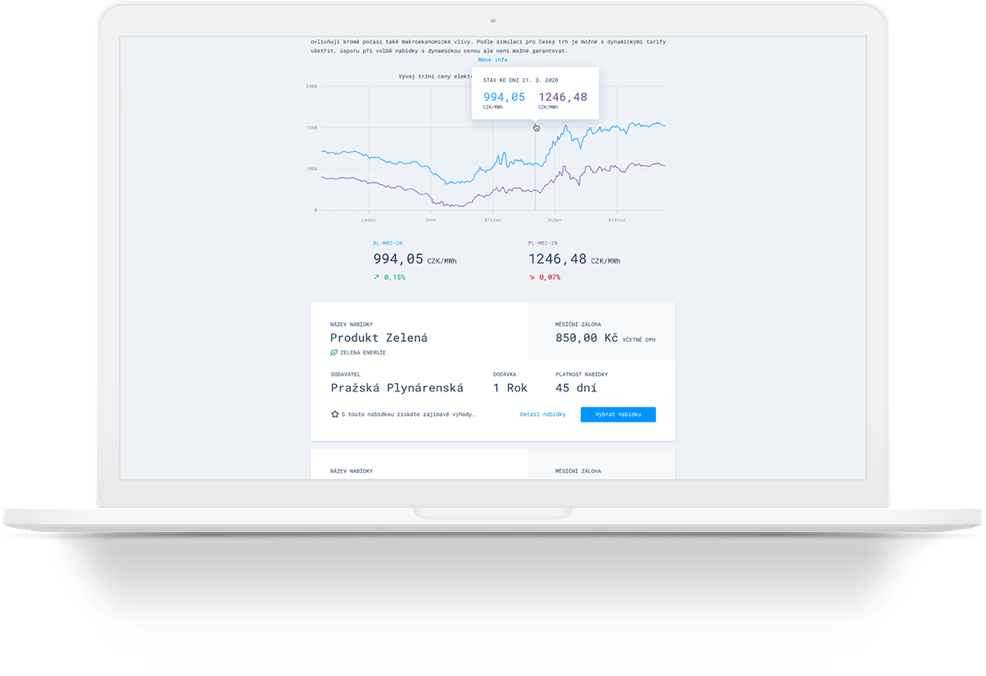
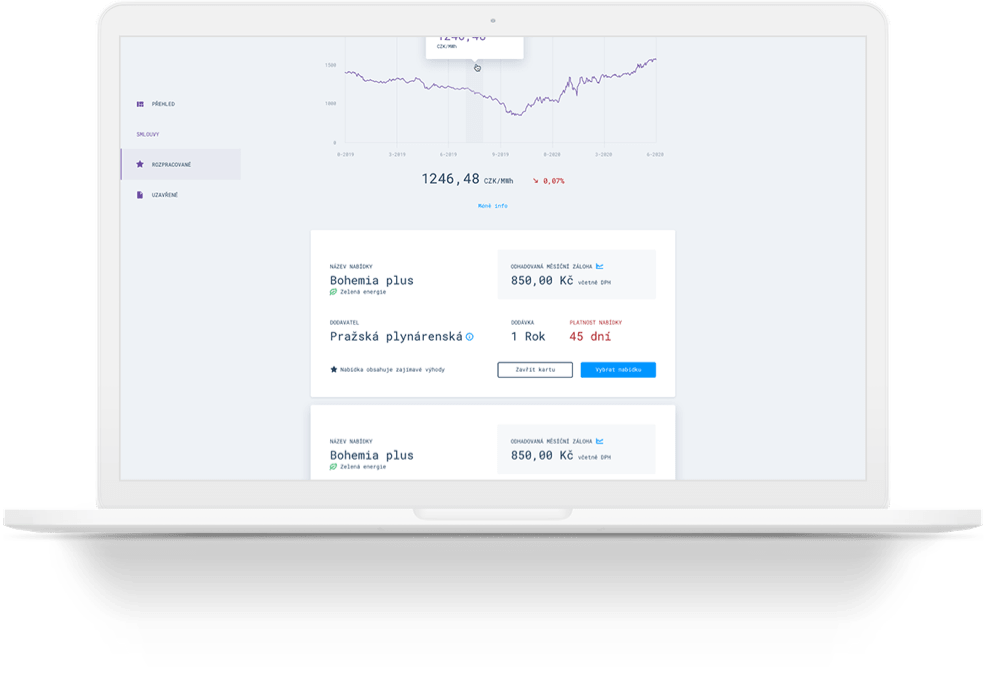
PXEPR-871-update-landing-page new picture add and minor fix

diff --git a/src/common/containers/carousel-container/carousel-container.component.ts b/src/common/containers/carousel-container/carousel-container.component.ts
@@ -28,20 +28,20 @@ export class CarouselContainerComponent extends AbstractComponent {
         {
             title: 'Nejdříve se seznámíme',
             label: 'Představíte nám vaše odběrné místo a základní informace o vaší aktuální smlouvě s dodavatelem.',
-            alt: 'carousel obrázek - drag and drop funkce',
-            src: '/assets/images/landing-page/laptop-dragdrop.png',
+            alt: 'carousel obrázek - Nejdříve se seznámíme',
+            src: '/assets/images/landing-page/laptop-supply-point.png',
         },
         {
             title: 'Dostanete nabídky',
             label: 'Získáme pro vás ty nejzajímavější nabídky od dodavatelů, které před tím důkladně prověříme, ať se nemusíte ničeho bát.',
-            alt: 'carousel obrázek - zajímavé nabídky',
+            alt: 'carousel obrázek - Dostanete nabídky',
             src: '/assets/images/landing-page/laptop-offers.png',
         },
         {
             title: 'Vyberete si a podepíšete smlouvu',
             label: 'Nejlákavější nabídku potvrdíte jedním kliknutím, doplníte nám základní informace o majiteli odběrného místa a smlouvu online podepíšete.',
-            alt: 'carousel obrázek - skvělý přehled',
-            src: '/assets/images/landing-page/laptop-overview.png',
+            alt: 'carousel obrázek - Vyberete si a podepíšete smlouvu',
+            src: '/assets/images/landing-page/laptop-payment.png',
         },
     ];
 

diff --git a/src/static/pages/landing/config.ts b/src/static/pages/landing/config.ts
@@ -4,20 +4,20 @@ export const carouselItems: ICarouselItem[] = [
     {
         title: 'Nejdříve se seznámíme',
         label: 'Představíte nám vaše odběrné místo a základní informace o vaší aktuální smlouvě s dodavatelem.',
-        alt: 'carousel obrázek - drag and drop funkce',
-        src: '/assets/images/landing-page/laptop-dragdrop.png',
+        alt: 'carousel obrázek - Nejdříve se seznámíme',
+        src: '/assets/images/landing-page/laptop-supply-point.png',
     },
     {
         title: 'Dostanete nabídky',
         label: 'Získáme pro vás ty nejzajímavější nabídky od dodavatelů, které před tím důkladně prověříme, ať se nemusíte ničeho bát.',
-        alt: 'carousel obrázek - zajímavé nabídky',
+        alt: 'carousel obrázek - Dostanete nabídky',
         src: '/assets/images/landing-page/laptop-offers.png',
     },
     {
         title: 'Vyberete si a podepíšete smlouvu',
         label: 'Nejlákavější nabídku potvrdíte jedním kliknutím, doplníte nám základní informace o majiteli odběrného místa a smlouvu online podepíšete.',
-        alt: 'carousel obrázek - skvělý přehled',
-        src: '/assets/images/landing-page/laptop-overview.png',
+        alt: 'carousel obrázek - Vyberete si a podepíšete smlouvu',
+        src: '/assets/images/landing-page/laptop-payment.png',
     },
 ];
 

diff --git a/src/assets/scss/01_base/_utilities.scss b/src/assets/scss/01_base/_utilities.scss
@@ -278,22 +278,26 @@ $colors: (
 
 @keyframes slideToRightFaster {
 	from {
-		transform: translate3d(-10%, 0, 0);
+		transform: translate3d(10%, 0, 0);
+		opacity: 0;
 		visibility: visible;
 	}
 
 	to {
 		transform: translate3d(0, 0, 0);
+		opacity: 1;
 	}
 }
 
 @keyframes slideToRightSlower {
 	from {
-		transform: translate3d(-20%, 0, 0);
+		transform: translate3d(20%, 0, 0);
+		opacity: 0;
 		visibility: visible;
 	}
 
 	to {
 		transform: translate3d(0, 0, 0);
+		opacity: 1;
 	}
 }

diff --git a/src/assets/scss/05_pages/landing-page.scss b/src/assets/scss/05_pages/landing-page.scss
@@ -251,7 +251,7 @@
 	}
 
 	.carousel {
-		padding-bottom: ( $spacer * 1.5 );
+		padding-bottom: ( $spacer * 2.5 );
 
 		// Media queries
 		@include media-breakpoint-up(md) {
@@ -270,7 +270,13 @@
 		&-item-img {
 			width: 130%;
 			height: auto;
+			margin-left: ( $spacer * 1.5 );
 			animation: slideToRightFaster .9s forwards;
+
+			// Media queries
+			@include media-breakpoint-up(md) {
+				margin-left: 0;
+			}
 		}
 
 		&-item-content {
